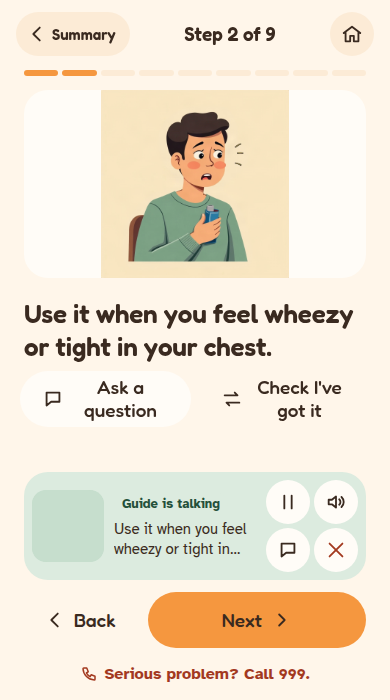
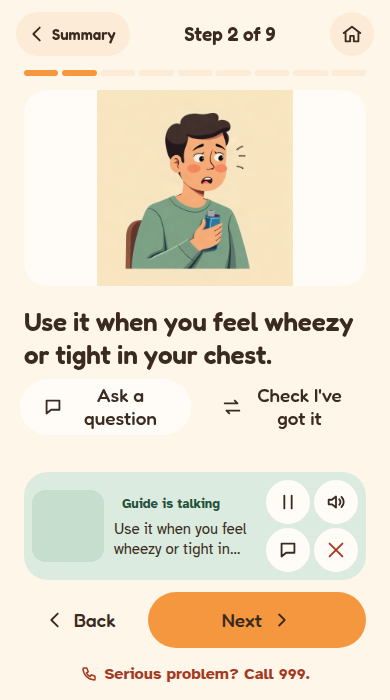
Live question sheet shows the guide's reply (document answer after 8 s), Enter sends, full dock captions, no gap above the dock

Changed region(s): [[0.0615, 0.12, 0.9231, 0.63], [0.0923, 0.54, 0.1538, 0.6], [0.4, 0.18, 0.4308, 0.21]]

diff --git a/web/src/useAnam.ts b/web/src/useAnam.ts
@@ -23,7 +23,9 @@ export function useAnam(
   /** What the guide is doing, for the dock's status chip. */
   const [activity, setActivity] = useState<"idle" | "talking" | "listening" | "paused">("idle");
   const [liveCaption, setLiveCaption] = useState("");
-  const captionId = useRef("");
+  const msgDone = useRef(true); // the last persona message ended: the next chunk starts a new caption
+  const [replySeq, setReplySeq] = useState(0); // +1 for each new persona message
+  const [replyDone, setReplyDone] = useState(0); // +1 each time a persona message ends
   const clientRef = useRef<ReturnType<typeof createClient> | null>(null);
   const handlersRef = useRef(handlers);
   handlersRef.current = handlers;
@@ -85,10 +87,16 @@ export function useAnam(
         }
         client.addListener(AnamEvent.MESSAGE_STREAM_EVENT_RECEIVED, (e: { id: string; content: string; role: string; endOfSpeech: boolean; interrupted: boolean }) => {
           if (e.role !== "persona") return;
-          if (e.id !== captionId.current) {
-            captionId.current = e.id;
-            setLiveCaption(e.content);
-          } else setLiveCaption((c) => c + e.content);
+          // Chunks of one message share nothing reliable, so a message runs until endOfSpeech/interrupted.
+          if (msgDone.current) {
+            msgDone.current = false;
+            setReplySeq((n) => n + 1);
+            setLiveCaption(e.content ?? "");
+          } else setLiveCaption((c) => c + (e.content ?? ""));
+          if (e.endOfSpeech || e.interrupted) {
+            msgDone.current = true;
+            setReplyDone((n) => n + 1);
+          }
           setActivity(e.endOfSpeech || e.interrupted ? "idle" : "talking");
         });
         client.addListener(AnamEvent.USER_SPEECH_STARTED, () => setActivity("listening"));
@@ -201,5 +209,5 @@ export function useAnam(
 
   useEffect(() => () => void stop(), [stop]);
 
-  return { state, error, sttMissing, micMuted, soundOff, start, stop, toggleMic, toggleSound, setLanguage, send, talk, interrupt, quiet, activity, liveCaption };
+  return { state, error, sttMissing, micMuted, soundOff, start, stop, toggleMic, toggleSound, setLanguage, send, talk, interrupt, quiet, activity, liveCaption, replySeq, replyDone };
 }

diff --git a/web/src/screens.tsx b/web/src/screens.tsx
@@ -83,7 +83,8 @@ function GuideDock({ text, lang }: { text: string; lang: string }) {
       </button>
     );
   }
-  const caption = info.caption || text;
+  const full = info.caption || text;
+  const caption = full.length > 90 ? "…" + full.slice(-90).replace(/^\S*\s/, "") : full; // the latest words
   // Compact, one row: video tile, status chip + two-line caption, icon buttons. Typing lives in the question sheet.
   return (
     <section className="dock dock-live dock-compact" aria-label={t(lang, "guideSays")}>
@@ -1099,7 +1100,16 @@ function AskSheet({ lang, n, live, answer, busy, onAsk, onClose }: { lang: strin
           </button>
         </div>
         <p className="sub">{tf(lang, "stillOnStep", { n })}</p>
-        <textarea dir="auto" value={q} onChange={(e) => setQ(e.target.value)} rows={2} placeholder={t(lang, "askExample")} />
+        <textarea
+          dir="auto"
+          value={q}
+          onKeyDown={(e) => {
+            if (e.key === "Enter" && !e.shiftKey && !e.nativeEvent.isComposing) {
+              e.preventDefault();
+              submit(q);
+            }
+          }}
+          onChange={(e) => setQ(e.target.value)} rows={2} placeholder={t(lang, "askExample")} />
         <div className="sheet-actions">
           {Rec && (
             <button className="btn quiet" onClick={mic} aria-pressed={listening}>
@@ -1112,8 +1122,14 @@ function AskSheet({ lang, n, live, answer, busy, onAsk, onClose }: { lang: strin
             {t(lang, "askQ")}
           </button>
         </div>
-        {sent && !live && (busy ? <p role="status">…</p> : answer ? <div className="answer" dir="auto" aria-live="polite">{answer}</div> : null)}
-        {sent && live && <p className="sub" role="status">{t(lang, "guideSays")}…</p>}
+        {sent && answer ? (
+          <div className="answer" dir="auto" aria-live="polite">
+            {live && <b>{t(lang, "guideSays")}: </b>}
+            {answer}
+          </div>
+        ) : sent && busy ? (
+          <p className="sub" role="status">{live ? t(lang, "guideSays") : ""}…</p>
+        ) : null}
         <button className="btn quiet" onClick={onClose}>
           {tf(lang, "backToStep", { n })}
         </button>

diff --git a/web/src/App.tsx b/web/src/App.tsx
@@ -578,13 +578,41 @@ export default function App() {
     } else if (voiceRef.current && guideOn) void speak(guide.steps[to]?.text ?? "", lang);
   }
 
+  // Live: the guide answers out loud and its reply text fills the sheet. No reply in 8 s: ask the document
+  // directly, show it, and have the guide say it.
+  const [waitReply, setWaitReply] = useState<{ seq: number; q: string } | null>(null);
   async function askOnStep(q: string) {
     const text = q.trim();
     if (!text || !guide) return;
     setQuestion(text);
-    if (liveRef.current && anam.send(text)) return; // the guide answers out loud, the user stays on the step
+    setAnswer(null);
+    if (liveRef.current && anam.send(text)) {
+      setWaitReply({ seq: anam.replySeq, q: text });
+      return;
+    }
     await onAsk(text);
   }
+  useEffect(() => {
+    if (!waitReply) return;
+    if (anam.replySeq > waitReply.seq) {
+      setAnswer(anam.liveCaption);
+      return;
+    }
+    const timer = setTimeout(() => {
+      setWaitReply(null);
+      void (async () => {
+        const say = await runTool("answer_from_document", { question: waitReply.q });
+        setAnswer(say);
+        if (liveRef.current) anam.talk(say);
+      })();
+    }, 8000);
+    return () => clearTimeout(timer);
+    // eslint-disable-next-line react-hooks/exhaustive-deps
+  }, [waitReply, anam.replySeq, anam.liveCaption]);
+  useEffect(() => {
+    if (waitReply && anam.replySeq > waitReply.seq) setWaitReply(null); // reply finished
+    // eslint-disable-next-line react-hooks/exhaustive-deps
+  }, [anam.replyDone]);
 
   function hideGuide() {
     void anam.stop();
@@ -728,7 +756,7 @@ export default function App() {
             onAskOpen={setAskOpen}
             onAsk={(q) => void askOnStep(q)}
             answer={answer}
-            busy={busy}
+            busy={busy || !!waitReply}
             onCheck={() => { go("tellback"); }}
           />
         )}

diff --git a/web/src/styles.css b/web/src/styles.css
@@ -860,7 +860,7 @@ body { font-size: var(--fs-body); line-height: 1.5; }
 .dock-cap2 { font-size: 0.9375rem; line-height: 1.3; display: -webkit-box; -webkit-line-clamp: 2; -webkit-box-orient: vertical; overflow: hidden; overflow-wrap: anywhere; }
 .dock-icons { display: grid; grid-template-columns: repeat(2, 2.75rem); gap: 0.25rem; }
 .dock-icons .icon-btn { width: 2.75rem; height: 2.75rem; }
-.step-screen .pic { flex: 0 0 auto; min-height: 0; height: clamp(7rem, calc(100dvh - 36rem), 17rem); max-height: none; }
-.step-screen.is-live .pic { height: clamp(7rem, calc(100dvh - 32rem), 17rem); }
+.step-screen .pic { flex: 0 0 auto; min-height: 0; height: clamp(7rem, calc(100dvh - 33rem), 22rem); max-height: none; }
+.step-screen.is-live .pic { height: clamp(7rem, calc(100dvh - 31.5rem), 22rem); }
 .step-screen .pic.small { height: 7rem; }
 .round.back-named { width: auto; padding-inline: 0.625rem 0.875rem; gap: 0.25rem; border-radius: var(--r-pill); font-weight: 600; font-size: 0.9375rem; display: inline-flex; align-items: center; }
